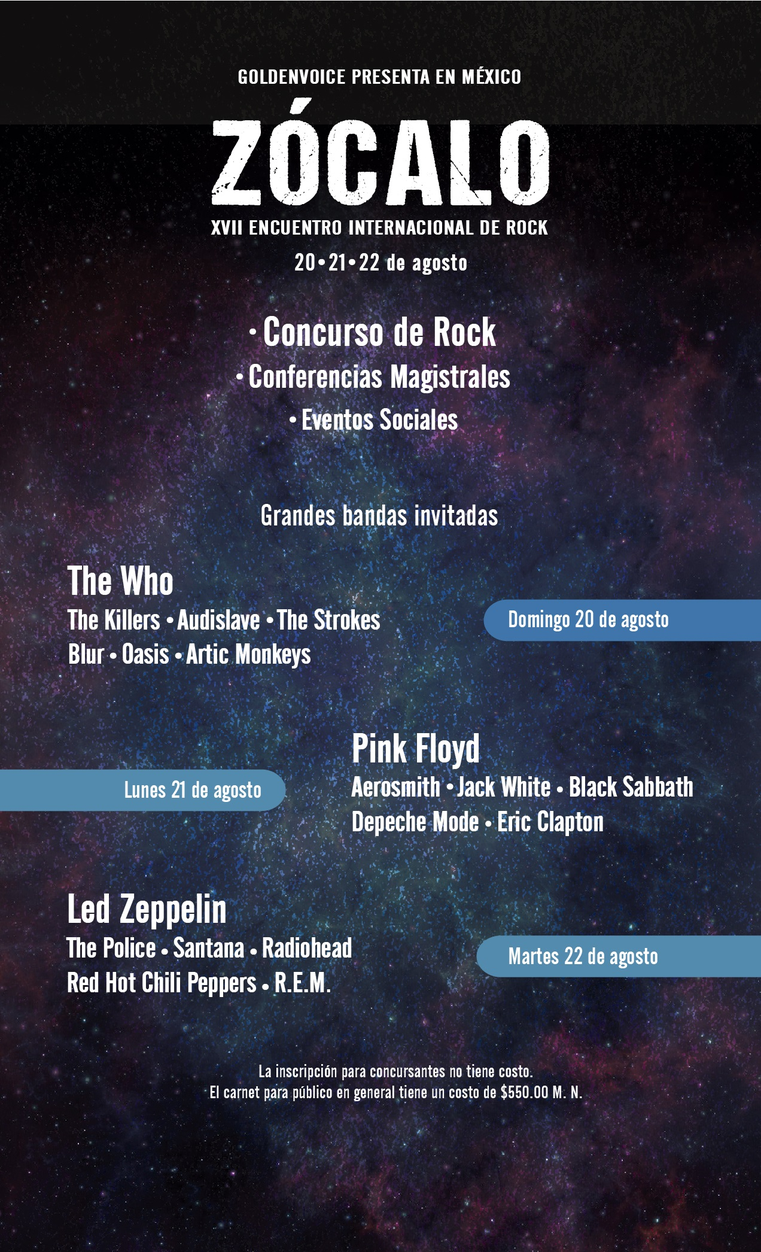
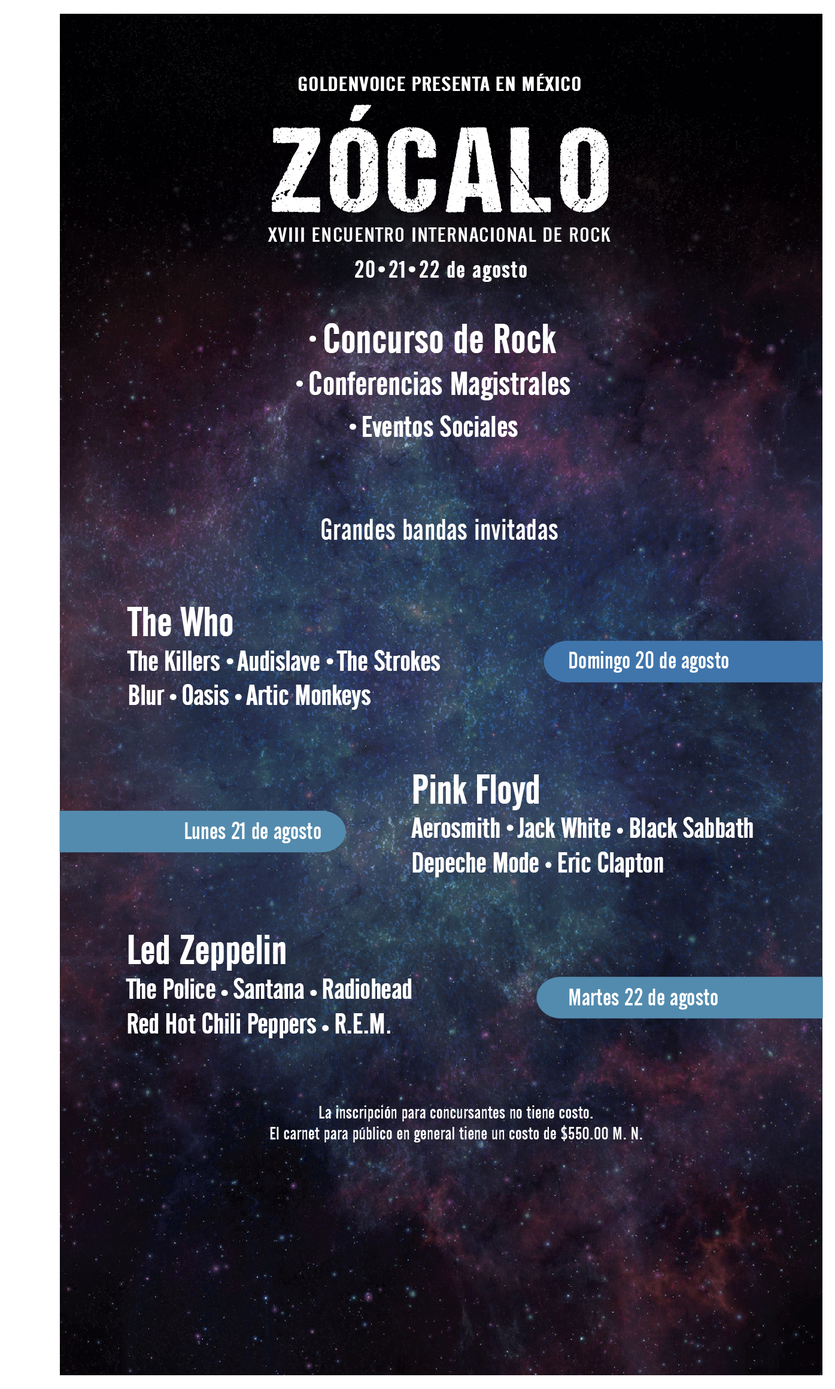
Inicio de la página de concurso y corrección de los gráficos de la página principal

diff --git a/root/index.html b/root/index.html
@@ -23,7 +23,7 @@
                     <div class="col-md-10" id="contenedor-menu">
                         <span id="menu-movil" class="visible-xs-inline-block visible-sm-inline-block">Menú</span>
                         <nav>
-                            <a href="#">Concurso</a>
+                            <a href="concurso.html">Concurso</a>
                             <a href="#">Conferencias</a>
                             <a href="#">Eventos</a>
                             <a href="#">Estadía</a>
@@ -85,8 +85,62 @@
                         <div class="col-xs-12 col-sm-6">
                             <div class="pagina-principal-cuadro">
                                 <img src="imagenes/pantallainicio/iconospantallas/hoteles.svg" alt="Hospedaje">
-                                <p>PLANEA TU VIAJE Y APROVECHA NUESTRAS PROMOCIONES"</p>
+                                <p>PLANEA TU VIAJE Y APROVECHA NUESTRAS PROMOCIONES</p>
                                 <p>Ir a sección →</p>
+                            </div>
+                        </div>
+                    </div>
+                </div>
+
+                <!-- Exponentes-->
+                <div class="row pagina-principal-seccion" id="seccion-exponentes">
+                    <div class="overlay">
+                        <div class="col-xs-12 col-sm-6">
+                            <div class="pagina-principal-cuadro">
+                                <img src="imagenes/pantallainicio/iconospantallas/exponentes.svg" alt="Concursos">
+                                <p>ESCUCHA A LOS MÁS GRANDES EXPONENTES DEL ROCK</p>
+                                <p>Ir a sección →</p>
+                            </div>
+                        </div>
+                        <div class="col-xs-12 col-sm-6">
+                            <div class="pagina-principal-parrafo">
+                                <p>Durante tres días serás capaz de escuchar a los más grandes exponentes del rock reunidos en un mismo lugar, no te pierdas a oportunidad de asistir a sus conciertos.</p>
+                            </div>
+                        </div>
+                    </div>
+                </div>
+
+                <!-- Conferencias-->
+                <div class="row pagina-principal-seccion" id="seccion-conferencias">
+                    <div class="overlay">
+                        <div class="col-xs-12 col-sm-6">
+                            <div class="pagina-principal-parrafo">
+                                <p>Se impartirán conferencias magistrales durante las tardes, donde podrás debatir y conversar sobre temas referentes al rock y a otros géneros.</p>
+                            </div>
+                        </div>
+                        <div class="col-xs-12 col-sm-6">
+                            <div class="pagina-principal-cuadro">
+                                <img src="imagenes/pantallainicio/iconospantallas/conferencia.svg" alt="Hospedaje">
+                                <p>CONFERENCIAS MAGISTRALES IMPARTIDAS POR EXPERTOS</p>
+                                <p>Ir a sección →</p>
+                            </div>
+                        </div>
+                    </div>
+                </div>
+
+                <!-- Eventos-->
+                <div class="row pagina-principal-seccion" id="seccion-eventos">
+                    <div class="overlay">
+                        <div class="col-xs-12 col-sm-6">
+                            <div class="pagina-principal-cuadro">
+                                <img src="imagenes/pantallainicio/iconospantallas/eventos.svg" alt="Concursos">
+                                <p>DISFRUTA DE NUESTROS EVENTOS SOCIALES</p>
+                                <p>Ir a sección →</p>
+                            </div>
+                        </div>
+                        <div class="col-xs-12 col-sm-6">
+                            <div class="pagina-principal-parrafo">
+                                <p>Se llevarán a cabo dos eventos sociales en uno de los más famosos salones de la Ciudad de México, donde podrás convivir y seguir escuchando buen rock.</p>
                             </div>
                         </div>
                     </div>

diff --git a/root/concurso.html b/root/concurso.html
@@ -1,0 +1,70 @@
+<!DOCTYPE HTML>
+<html>
+    <head>
+        <meta charset="utf-8">
+        <script src="http://code.jquery.com/jquery-3.2.1.min.js"></script>
+        <script src="https://code.jquery.com/jquery-migrate-1.4.1.min.js"></script>
+        <script src="javascript/bootstrap.min.js"></script>
+        <script src="javascript/funciones.js"></script>
+        <link rel="stylesheet" type="text/css" href="css/estilos.css">
+        <link rel="stylesheet" href="css/bootstrap.min.css">
+        <title>Concursos - Zócalo</title>
+    </head>
+    <body>
+        <!-- El header del sitio. Debe de ser igual para todas las páginas.-->
+        <!-- FALTA centrar los links y diseñar el modo responsivo. Además, los links están centrados con una chicanada.-->
+        <header>
+            <div class="div container-fluid">
+                <div class="row">
+                    <div class="col-md-2">
+                        <span id="logotipo">Logotipo</span>
+                    </div>
+                    <div class="col-md-10" id="contenedor-menu">
+                        <span id="menu-movil" class="visible-xs-inline-block visible-sm-inline-block">Menú</span>
+                        <nav>
+                            <a href="concurso.html">Concurso</a>
+                            <a href="#">Conferencias</a>
+                            <a href="#">Eventos</a>
+                            <a href="#">Estadía</a>
+                            <a href="#">Invitados</a>
+                            <a href="#">Boletos</a>
+                        </nav>
+                    </div>
+                </div>
+            </div>
+        </header>
+
+        <!-- La imagen de portada con parallax. -->
+        <div class="parallax" id="concursos-portada">
+            <div class="overlay"></div>
+        </div>
+
+        <!-- El contenido principal de la pagina.-->
+        <main>
+            <div class="div container">
+                <!-- El poster del evento.-->
+                <div class="row">
+                    <div class="col-xs-12">
+                        <span id="concurso-icono">Icono</span>
+                        <div id="concurso-titulo">
+                            <h1>Concurso de Rock</h1>
+                            <h3>XVIII ENCUENTRO INTERNACIONAL DE ROCK: GUERRA DE BANDAS</h3>
+                            <p>Nuestro concurso de rock ya cuenta con diesiocho años de antigüedad, volviendose una de las más grandes batallas de rock del país.</p>
+                        </div>
+                    </div>
+                </div>
+            </div>
+            
+            <!-- Las secciones correspondientes a las otras páginas.-->
+            <div class="row">
+                
+            </div>
+        </main>
+
+        <!-- El footer del sitio. De nuevo, tiene que ser igual para todas las páginas-->
+        <footer>
+
+        </footer>
+
+    </body>
+</html>

diff --git a/root/css/estilos.css b/root/css/estilos.css
@@ -12,6 +12,13 @@ body {
     margin: 0;
 }
 
+body main {
+    font-family: 'Oswald', sans-serif;
+    color: #000;
+    font-size: 14px;
+    margin: 0;
+}
+
 /*=============================== Header ===============================*/
 header {
     position: fixed;
@@ -137,7 +144,7 @@ header nav a:hover {
     border-style: solid;
     border-color: #fff;
     border-width: 30px;
-	background-image: url(../imagenes/pantallainicio/poster.jpg);
+	background-image: url(../imagenes/pantallainicio/poster.png);
 	background-size: 100% 100%;
 	background-repeat: no-repeat;
 	background-position: center;
@@ -217,5 +224,71 @@ header nav a:hover {
     z-index: 2;
 }
 
+#seccion-exponentes {
+    background-image: url(../imagenes/pantallainicio/conciertos1.jpg);
+    background-color: #000;
+    z-index: 2;
+}
+
+#seccion-conferencias {
+    background-image: url(../imagenes/pantallainicio/conferencias1.jpg);
+    background-color: #000;
+    z-index: 2;
+}
+
+#seccion-eventos {
+    background-image: url(../imagenes/pantallainicio/concurso1.jpg);
+    background-color: #000;
+    z-index: 2;
+}
 
 /*=============================== Concursos ===============================*/
+#concursos-portada {
+    height: 50%;
+    background-image: url(../imagenes/concurso/portada.png);
+    background-size: auto 518px; /*No hay forma de que llene todo el espacio en lg sin distorsionarse o que solo se vea el cielo*/
+    background-position: top;
+	background-color: #000;
+	z-index: 1;
+}
+
+#concurso-icono {
+    position: relative;
+    display: block;
+    margin: -68px auto 0;
+    width: 137px;
+    height: 137px;
+    background-image: url(../imagenes/concurso/iconoconcurso.svg);
+    background-size: cover;
+    background-position: center;
+    background-repeat: no-repeat;
+    text-indent: -9999px;
+    z-index: 2;
+}
+
+#concurso-titulo {
+    position: relative;
+    display: block;
+    text-align: center;
+}
+
+#concurso-titulo h1 {
+    position: relative;
+    display: block;
+    margin: 10px auto;
+    font-size: 48;
+    font-weight: bold;
+}
+
+#concurso-titulo h2 {
+    position: relative;
+    display: block;
+    margin: 0 auto;
+    font-size: 12px;
+}
+
+#concurso-titulo p {
+    position: relative;
+    display: block;
+    margin-top: 24px;
+}
